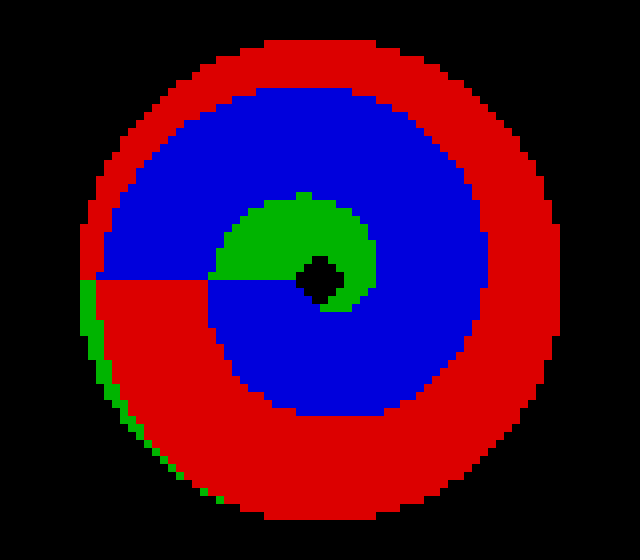
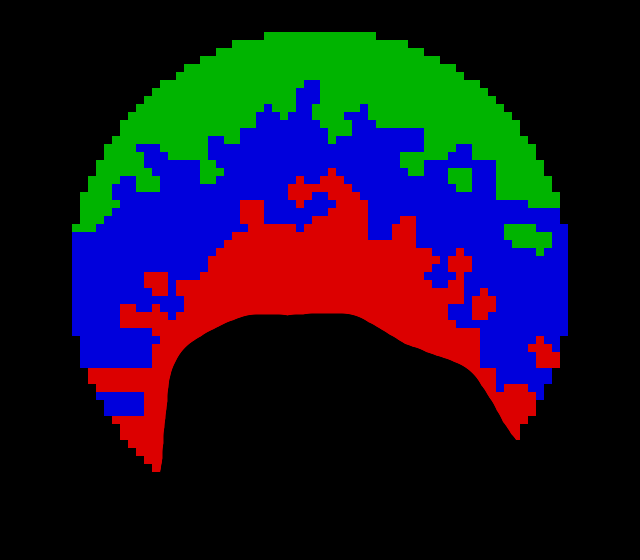
Add sunflower map and improve zoning/planning
Add a new generate_sunflower_map() to MapImporter that builds a phyllotaxis-based zone map: Vogel seed placement, Voronoi assignment, Fibonacci arm modulation, and gravity-weighted per-seed area allocation to produce Import/Storage/Export zones by grid-cell area. Refactor generate_spiral_map(): adjust defaults, apply CW angle, add gravity bias, and change phase mapping to better match gravity-oriented Import/Storage/Export regions.

Revamp warehouse move planning: replace binary space-available gates with explicit headroom counters, cap new move-list entries to available headroom, and ensure reorg entries get priority. Implement precise surplus eviction in remove_immovables_from_packagesMoveList (cancel only as many idle planned packages as actual over-planned slots), clear phantom target cells when evicting, and sweep packagesMoveList to drop entries that failed to receive a target this tick. These changes reduce mass plan churn and better bound planned moves to real capacity.

Also update the zone_map.png resource image (binary replaced) and remove the old top-level zone_map.png.

diff --git a/data/warehouse/warehouse.py b/data/warehouse/warehouse.py
@@ -482,27 +482,38 @@ class Warehouse:
     def remove_immovables_from_packagesMoveList(self):
         if not self.packagesMoveList:
             return self.packagesMoveList, self.packages, self.packagesPlannedInImportCount, self.packagesPlannedInStorageCount, self.packagesPlannedInExportCount
-        # In order of least importance, For packages in PackageMoveList from last pass but still not in PackagesMovingList, (e.g., if they are blocked by space limitation) remove the package from packagesMoveList
-        for packageNumber in reversed(self.packagesMoveList):
+        # For idle packages in the move list that are plan-surplus for their target zone,
+        # cancel only as many as are actually over-planned this tick.
+        #
+        # Surplus = planned_count - free_physical_slots
+        #         = planned_count - (total_slots - actual_in_zone)
+        #
+        # A positive surplus means we have more pending plans than there are empty
+        # slots to absorb them: cancel exactly that many (least-important first,
+        # i.e. reversed move-list order).  Zero or negative surplus = nothing to do,
+        # even if the space-available flag is False — physical slots still exist.
+        # This prevents mass plan-cancellations triggered purely by the boolean gate.
+        free_import  = max(0, self.numberOfImportSlots  - self.packagesInImportCount)
+        free_storage = max(0, self.numberOfStorageSlots - self.packagesInStorageCount)
+        free_export  = max(0, self.numberOfExportSlots  - self.packagesInExportCount)
+        surplus = {
+            'import':  max(0, self.packagesPlannedInImportCount  - free_import),
+            'storage': max(0, self.packagesPlannedInStorageCount - free_storage),
+            'export':  max(0, self.packagesPlannedInExportCount  - free_export),
+        }
+        evicted = {'import': 0, 'storage': 0, 'export': 0}
+        for packageNumber in list(reversed(self.packagesMoveList)):  # snapshot — list is mutated inside loop
             if (packageNumber not in self.packagesMovingList):
                 packageIndex = [y for y, x in enumerate(self.packages) if x.packageNumber == packageNumber]
                 if packageIndex:
                     packageIndex = packageIndex[0]
-                    packageStatus = self.packages[packageIndex].status
-                    packageArea = self.packages[packageIndex].area
+                    packageStatus    = self.packages[packageIndex].status
                     packageAreaTarget = self.packages[packageIndex].areaTarget
-                    packageLocation = self.packages[packageIndex].xyLocation
-                    packageTargetLocation = self.packages[packageIndex].xyLocationTarget
                     removePackage = False
                     if (packageStatus == "idle"):
-                        # Determine If removePackage
                         if (packageAreaTarget == "none"):
                             removePackage = True
-                        elif (packageAreaTarget == "import") and (self.importSpaceAvailable == False):
-                            removePackage = True
-                        elif (packageAreaTarget == "storage") and (self.storageSpaceAvailable == False):
-                            removePackage = True
-                        elif (packageAreaTarget == "export") and (self.exportSpaceAvailable == False):
+                        elif packageAreaTarget in surplus and evicted[packageAreaTarget] < surplus[packageAreaTarget]:
                             removePackage = True
                         # Remove Package
                         if (removePackage == True):
@@ -512,13 +523,30 @@ class Warehouse:
                                 self.packagesPlannedInStorageCount -= 1
                             elif (packageAreaTarget == "export"):
                                 self.packagesPlannedInExportCount -= 1
+                            if packageAreaTarget in evicted:
+                                evicted[packageAreaTarget] += 1
+                            # Clear the phantom target cell so try_packageTargetLocation
+                            # can reuse it this same tick.
+                            tx, ty = self.packages[packageIndex].xyLocationTarget
+                            if self.packageTargetsInWarehouse[ty][tx] == 1:
+                                self.packageTargetsInWarehouse[ty][tx] = 0
                             self.packages[packageIndex].status = "idle"
                             self.packages[packageIndex].areaTarget = "none"
                             self.packagesMoveList.remove(packageNumber)
         return self.packagesMoveList, self.packages, self.packagesPlannedInImportCount, self.packagesPlannedInStorageCount, self.packagesPlannedInExportCount
 
     def append_to_packagesMoveList(self):
-        # Drain reorg list first — displaced packages get front-of-queue priority
+        # Headroom = genuinely available destination slots this tick.
+        # Cap new moveList entries to total_headroom so we don't queue more
+        # packages than there are slots to assign targets to this tick.
+        export_headroom  = max(0, self.numberOfExportSlots  - self.packagesInExportCount  - self.packagesPlannedInExportCount)
+        storage_headroom = max(0, self.numberOfStorageSlots - self.packagesInStorageCount - self.packagesPlannedInStorageCount)
+        total_headroom   = export_headroom + storage_headroom
+        new_entries      = 0
+
+        # Drain reorg list first — displaced packages get front-of-queue priority.
+        # Reorg entries reclaim already-planned slot space so they don't consume
+        # from new_entries (which caps against total_headroom for net-new work).
         for pkg_num in list(self.packagesReorgList):
             pkg_idx = next((i for i, p in enumerate(self.packages)
                             if p.packageNumber == pkg_num), None)
@@ -533,6 +561,8 @@ class Warehouse:
         # Add package to packagesMoveList if there is enough bandwidth
         if (len(self.packagesMoveList) < self.packagesMaxMoveQuantity):
             for i in range(len(self.packages)):
+                if new_entries >= total_headroom:
+                    break
                 packageNumber = self.packages[i].packageNumber
                 packageStatus = self.packages[i].status
                 packageArea = self.packages[i].area
@@ -541,14 +571,15 @@ class Warehouse:
                 addPackage = False
                 if (packageStatus == "idle"):
                     if (packageNumber not in self.packagesMoveList) and (packageNumber not in self.packagesMovingList) and (packageArea != "export"):
-                        if ((packageArea == "import") and ((self.storageSpaceAvailable == True) or (self.exportSpaceAvailable == True))):
+                        if (packageArea == "import") and (storage_headroom > 0 or export_headroom > 0):
                             addPackage = True
-                        elif ((packageArea == "storage") and (self.exportSpaceAvailable == True)):
+                        elif (packageArea == "storage") and (export_headroom > 0):
                             addPackage = True
-                        elif ((packageArea == "neutral") and ((self.storageSpaceAvailable == True) or (self.exportSpaceAvailable == True))):
+                        elif (packageArea == "neutral") and (storage_headroom > 0 or export_headroom > 0):
                             addPackage = True
                     if (addPackage == True):
                         self.packagesMoveList.append(packageNumber)
+                        new_entries += 1
                 # Cut packagesMoveList Loop if exceeded packagesMaxMoveQuantity
                 if (len(self.packagesMoveList) >= self.packagesMaxMoveQuantity):
                     break
@@ -557,6 +588,17 @@ class Warehouse:
     def update_packages_targetLocation(self):
         if not self.packagesMoveList:
             return self.packages, self.packageTargetsInWarehouse, self.packagesPlannedInImportCount, self.packagesPlannedInStorageCount, self.packagesPlannedInExportCount
+        # Replace the binary spaceAvailable gate with direct headroom counters.
+        #
+        # Headroom = physical free slots - already-planned slots
+        #          = (totalSlots - inZoneCount) - plannedCount
+        #
+        # Each new assignment decrements the headroom, so the number of new
+        # plans made this tick is exactly bounded by the true current capacity.
+        # This eliminates the binary-flag "wave" where all idle packages
+        # simultaneously get (or lose) targets when a gate flag flips.
+        export_headroom  = max(0, self.numberOfExportSlots  - self.packagesInExportCount  - self.packagesPlannedInExportCount)
+        storage_headroom = max(0, self.numberOfStorageSlots - self.packagesInStorageCount - self.packagesPlannedInStorageCount)
         for i in range(len(self.packages)):
             packageNumber = self.packages[i].packageNumber
             packageStatus = self.packages[i].status
@@ -567,24 +609,38 @@ class Warehouse:
                 if (packageStatus == 'idle'):
                     movePackage = False
                     # Try to store package in Export
-                    if (movePackage == False) and (self.exportSpaceAvailable == True):
+                    if (movePackage == False) and (export_headroom > 0):
                         if (packageArea != 'export') and (packageAreaTarget != 'export'):
                             movePackage, xyLocation = Package_Functions.try_packageTargetLocation(self.zoneMap, ZONE_EXPORT, self.packagesInWarehouse, self.packageTargetsInWarehouse, self.chargersInWarehouse)
                             if (movePackage == True):
                                 self.packages[i].areaTarget = 'export'
                                 self.packagesPlannedInExportCount += 1
+                                export_headroom -= 1
                     # Try to store package in Storage
-                    if (movePackage == False) and (self.storageSpaceAvailable == True):
+                    if (movePackage == False) and (storage_headroom > 0):
                         if (packageArea != "storage") and (packageAreaTarget != 'storage'):
                             movePackage, xyLocation = Package_Functions.try_packageTargetLocation(self.zoneMap, ZONE_STORAGE, self.packagesInWarehouse, self.packageTargetsInWarehouse, self.chargersInWarehouse)
                             if (movePackage == True):
                                 self.packages[i].areaTarget = 'storage'
                                 self.packagesPlannedInStorageCount += 1
+                                storage_headroom -= 1
                     # Move the package (or take no action)
                     if (movePackage == True):
                         self.packages[i].xyLocationTarget = xyLocation.copy()
                         self.packages[i].status = 'move planned'
                         self.packageTargetsInWarehouse[xyLocation[1]][xyLocation[0]] = 1
+        # Sweep: remove moveList entries that couldn't get a target this tick.
+        # Headroom counters can slightly overestimate when chargers or in-transit
+        # packages physically block zone cells without being reflected in the
+        # zone-level counts.  Without this sweep those stranded entries (idle,
+        # areaTarget still "none") would appear as a one-frame green flash before
+        # remove_immovables cleans them next tick.
+        for pkgNum in list(self.packagesMoveList):
+            if pkgNum in self.packagesMovingList:
+                continue
+            idx = next((i for i, p in enumerate(self.packages) if p.packageNumber == pkgNum), None)
+            if idx is not None and self.packages[idx].status == 'idle' and self.packages[idx].areaTarget == 'none':
+                self.packagesMoveList.remove(pkgNum)
         return self.packages, self.packageTargetsInWarehouse, self.packagesPlannedInImportCount, self.packagesPlannedInStorageCount, self.packagesPlannedInExportCount
 
     def update_packageTargetsInWarehouse(self):

diff --git a/data/paint/map_importer.py b/data/paint/map_importer.py
@@ -275,52 +275,189 @@ class MapImporter:
         cw2, ch2 = gw * cell_px, gh * cell_px
         print("[MapImporter] Default map written: {}  ({}×{} px)".format(path, cw2, ch2))
 
+    # ── Sunflower zone map generator ───────────────────────────────────
+
+    @classmethod
+    def generate_sunflower_map(cls, path, gw=80, gh=70, cell_px=8,
+                               outer_frac=0.90):
+        """Write a phyllotaxis / sunflower zone-map PNG to *path*.
+
+        Seed positions follow Vogel's golden-angle formula with n=377 seeds
+        (a Fibonacci number), which encodes 21 CW and 34 CCW visible spiral
+        arms — the two consecutive Fibonacci numbers for this seed count.
+        Each grid cell is assigned to its nearest seed (Voronoi), so every
+        seed becomes one distinct rhombic section.
+
+        Zone boundaries follow Fibonacci spiral arms via arm modulation:
+          arm_mod = sin(2π·i%21/21) × sin(2π·i%34/34)
+        This peaks at the centre of each rhombus and dips at arm crossings,
+        causing zone boundaries to zigzag along the spiral arms.
+
+        Zone proportions are enforced by assigning seeds in ascending gravity
+        order, accumulating *grid cell counts* (not seed counts) until the
+        target area fraction is met.  This corrects for inner seeds having
+        larger Voronoi cells than outer seeds.
+
+        Gravity ordering:
+            Import  — outer ring / top    (≈20 % of active disk area)
+            Storage — middle annular band (≈31 %)
+            Export  — inner core / bottom (≈49 %)
+        """
+        golden_angle = np.pi * (3.0 - np.sqrt(5.0))   # ≈ 137.508°
+        n_seeds      = 377       # Fibonacci → 21-CW + 34-CCW visible spiral arms
+        F_cw, F_ccw  = 21, 34
+
+        cx, cy = (gw - 1) / 2.0, (gh - 1) / 2.0
+        max_r  = min(cx, cy)
+
+        # ── Vogel seed positions ──────────────────────────────────────────
+        idx    = np.arange(0, n_seeds, dtype=float)
+        r_norm = np.sqrt(idx / max(n_seeds - 1, 1))         # 0 .. 1
+        theta  = idx * golden_angle
+        seed_x = cx + r_norm * outer_frac * max_r * np.cos(theta)
+        seed_y = cy + r_norm * outer_frac * max_r * np.sin(theta)
+
+        # ── Voronoi assignment ────────────────────────────────────────────
+        ys, xs  = np.mgrid[0:gh, 0:gw].astype(float)
+        flat_x  = xs.ravel()
+        flat_y  = ys.ravel()
+        dx = flat_x[:, np.newaxis] - seed_x[np.newaxis, :]  # (gh*gw, n_seeds)
+        dy = flat_y[:, np.newaxis] - seed_y[np.newaxis, :]
+        nearest  = np.argmin(dx**2 + dy**2, axis=1).reshape(gh, gw)
+
+        # ── In-disk mask (for area calculations) ─────────────────────────
+        r_grid   = np.sqrt((xs - cx)**2 + (ys - cy)**2) / max_r
+        in_disk  = r_grid < outer_frac * 1.01
+
+        # ── Per-seed gravity: mean gravity of their in-disk cells ─────────
+        # Using grid-cell-level gravity weights area correctly — inner seeds
+        # naturally contribute more cells and thus more weight, matching the
+        # proportion of grid cells each zone will receive.
+        y_grid        = ys / (gh - 1)                       # 0=top, 1=bottom
+        cell_gravity  = (1.0 - r_grid) * 0.4 + y_grid * 0.6
+
+        flat_nearest  = nearest.ravel()
+        flat_gravity  = cell_gravity.ravel()
+        flat_in_disk  = in_disk.ravel()
+        valid_idx     = flat_nearest[flat_in_disk]
+        valid_grav    = flat_gravity[flat_in_disk]
+
+        grav_sum   = np.bincount(valid_idx, weights=valid_grav, minlength=n_seeds)
+        cell_count = np.bincount(valid_idx, minlength=n_seeds)
+        seed_grav  = np.where(cell_count > 0, grav_sum / (cell_count + 1e-9), 0.0)
+
+        # ── Fibonacci arm modulation ──────────────────────────────────────
+        # sin(2π·i%F_cw/F_cw) × sin(2π·i%F_ccw/F_ccw) peaks at the centre
+        # of each rhombic "seed diamond", causing zone edges to follow
+        # the 21/34 Fibonacci spiral arms rather than a smooth oval.
+        arm_cw  = np.sin(2.0 * np.pi * (idx % F_cw)  / F_cw)
+        arm_ccw = np.sin(2.0 * np.pi * (idx % F_ccw) / F_ccw)
+        score   = seed_grav + 0.08 * (arm_cw * arm_ccw)    # ∈ rough [0, 1]
+
+        # ── Zone assignment by cumulative grid-cell area ──────────────────
+        # Sort seeds ascending (low score = outer/top = Import first).
+        # Walk the sorted list, accumulating their cell counts, and flip the
+        # zone label when the running total crosses each target threshold.
+        # This guarantees the desired grid-cell proportions regardless of
+        # how cell sizes vary across radii.
+        total_cells    = int(flat_in_disk.sum())
+        import_ceiling = int(total_cells * 0.20)
+        storage_ceil   = import_ceiling + int(total_cells * 0.31)
+
+        seed_zone  = np.full(n_seeds, ZONE_EXPORT, dtype='uint8')
+        cumcells   = 0
+        for si in np.argsort(score):
+            nc = cell_count[si]
+            if cumcells < import_ceiling:
+                seed_zone[si] = ZONE_IMPORT
+            elif cumcells < storage_ceil:
+                seed_zone[si] = ZONE_STORAGE
+            # else: remains ZONE_EXPORT (default)
+            cumcells += nc
+
+        # ── Build zone_map, mask outer fringe and perimeter ──────────────
+        zone_map = seed_zone[nearest]
+        zone_map[~in_disk] = ZONE_NONE
+        zone_map[:2, :]  = ZONE_NONE
+        zone_map[-2:, :] = ZONE_NONE
+        zone_map[:, :2]  = ZONE_NONE
+        zone_map[:, -2:] = ZONE_NONE
+
+        # ── Render ────────────────────────────────────────────────────────
+        zone_img = np.zeros((gh, gw, 3), dtype='uint8')
+        for zid, col in {
+            ZONE_NONE:    (  0,   0,   0),
+            ZONE_IMPORT:  (  0, 180,   0),
+            ZONE_STORAGE: (220,   0,   0),
+            ZONE_EXPORT:  (  0,   0, 220),
+        }.items():
+            zone_img[zone_map == zid] = col
+
+        img = cv2.resize(zone_img, (gw * cell_px, gh * cell_px),
+                         interpolation=cv2.INTER_NEAREST)
+
+        out_dir = os.path.dirname(os.path.abspath(path))
+        if out_dir:
+            os.makedirs(out_dir, exist_ok=True)
+        cv2.imwrite(path, img)
+        counts = {v: int(np.count_nonzero(zone_map == v)) for v in [1, 2, 3]}
+        cw2, ch2 = gw * cell_px, gh * cell_px
+        print("[MapImporter] Sunflower map written: {}  ({}×{} px), slots: {}".format(
+            path, cw2, ch2, counts))
+
     # ── Spiral / black-hole zone map generator ─────────────────────────
 
     @classmethod
     def generate_spiral_map(cls, path, gw=80, gh=70, cell_px=8,
-                            n_turns=2.5, core_frac=0.08, outer_frac=0.88):
-        """Write a spiral zone-map PNG to *path*.
+                            n_turns=3.0, core_frac=0.11, outer_frac=0.90):
+        """Write a gravity-optimized spiral zone-map PNG to *path*.
 
-        Zones cycle Import→Storage→Export spiralling outward from the centre,
-        creating a black-hole / galaxy-arm effect.  The very centre and outer
-        border remain neutral so robots can navigate around the edge.
+        Flow mirrors gravity pulling packages inward and downward:
 
-        Args:
-            n_turns:    how many full spiral rotations across the radius.
-            core_frac:  fraction of max_r treated as neutral black-hole core.
-            outer_frac: fraction of max_r beyond which cells revert to neutral.
+            Import  — outer ring / top   (packages arrive from outside/above)
+            Storage — middle spiral bands (transit layer)
+            Export  — inner core / bottom (gravity well — packages settle here)
+
+        The spiral rotates clockwise so arms sweep downward.  A vertical
+        gravity bias shifts the zone boundaries progressively toward export
+        at the bottom of the warehouse, reinforcing the gravitational pull.
         """
-        # Build coordinate grids (float)
         ys, xs = np.mgrid[0:gh, 0:gw].astype(float)
         cx, cy = (gw - 1) / 2.0, (gh - 1) / 2.0
         dx, dy = xs - cx, ys - cy
 
-        # Polar coords
         r     = np.sqrt(dx**2 + dy**2)
         theta = np.arctan2(dy, dx)          # -π .. π
 
-        max_r = min(cx, cy)                  # largest usable radius
+        max_r = min(cx, cy)
 
-        # Normalise radius to [0, 1] and theta to [0, 1)
-        r_norm     = r / max_r
-        theta_norm = (theta + np.pi) / (2 * np.pi)   # 0 .. 1
+        r_norm = r / max_r
 
-        # Spiral phase: advances n_turns full cycles as r goes 0→1,
-        # plus one extra cycle contributed by the angle.
-        phase = (r_norm * n_turns + theta_norm) % 3.0
+        # Clockwise angle: negate so arms rotate CW (gravity spiral inward)
+        theta_cw = ((-theta) % (2 * np.pi)) / (2 * np.pi)   # 0 .. 1, clockwise
 
-        # Assign zones based on phase thirds
+        # Vertical gravity bias: 0 at top → gravity_strength at bottom.
+        # Nudges the phase downward so the bottom of the warehouse naturally
+        # settles into the export zone without needing to be near the centre.
+        gravity_strength = 0.85
+        gravity_bias = (ys / (gh - 1)) * gravity_strength
+
+        # Phase encoding (mod 3):
+        #   0 .. 1  → Export  (low phase = inner / bottom = gravity sink)
+        #   1 .. 2  → Storage (mid)
+        #   2 .. 3  → Import  (high phase = outer / top = arrival zone)
+        phase = (r_norm * n_turns + theta_cw + gravity_bias) % 3.0
+
         zone_map = np.zeros((gh, gw), dtype='uint8')
-        zone_map[(phase >= 0) & (phase < 1)] = ZONE_IMPORT
+        zone_map[(phase >= 0) & (phase < 1)] = ZONE_EXPORT
         zone_map[(phase >= 1) & (phase < 2)] = ZONE_STORAGE
-        zone_map[(phase >= 2) & (phase < 3)] = ZONE_EXPORT
+        zone_map[(phase >= 2) & (phase < 3)] = ZONE_IMPORT
 
-        # Hollow out: core (black-hole centre) and outer border → neutral
+        # Hollow core (the singularity) and outer fringe → neutral
         zone_map[r_norm <  core_frac]  = ZONE_NONE
         zone_map[r_norm >= outer_frac] = ZONE_NONE
 
-        # Also clear a 2-cell perimeter so robots can always navigate the edge
+        # Hard 2-cell perimeter so robots can always navigate the edge
         zone_map[:2, :]  = ZONE_NONE
         zone_map[-2:, :] = ZONE_NONE
         zone_map[:, :2]  = ZONE_NONE
